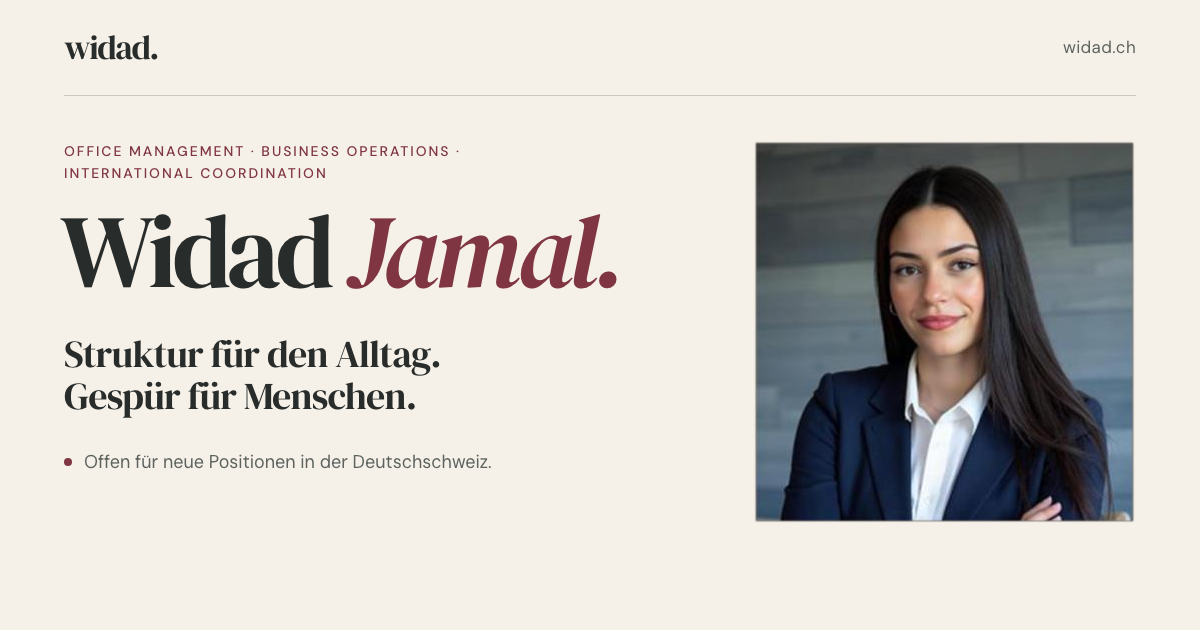
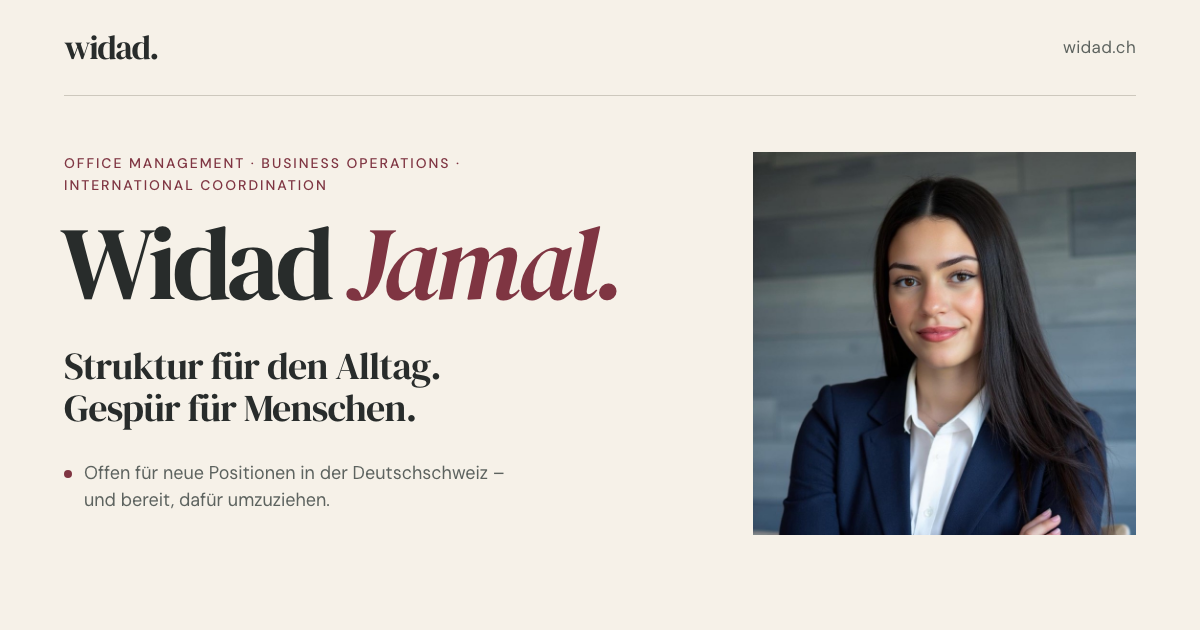
updates

diff --git a/index.html b/index.html
@@ -4,7 +4,7 @@
   <meta charset="utf-8">
   <meta name="viewport" content="width=device-width, initial-scale=1">
   <title data-i18n="meta.title">Widad Jamal | Office Management &amp; Business Operations</title>
-  <meta name="description" data-i18n-attr="content:meta.description" content="Widad Jamal – Office Manager in Lugano mit Erfahrung in Office Management, Business Operations und internationaler Koordination. Offen für neue Positionen in der Deutschschweiz.">
+  <meta name="description" data-i18n-attr="content:meta.description" content="Widad Jamal – Office Manager in Lugano mit Erfahrung in Office Management, Business Operations und internationaler Koordination. Offen für neue Positionen in der Deutschschweiz und bereit für einen Umzug.">
   <meta name="theme-color" content="#F6F1E8">
   <meta name="color-scheme" content="light">
   <link rel="canonical" href="https://widad.ch/">
@@ -14,7 +14,7 @@
   <meta property="og:site_name" content="widad.ch">
   <meta property="og:url" content="https://widad.ch/">
   <meta property="og:title" content="Widad Jamal | Office Management &amp; Business Operations">
-  <meta property="og:description" content="Office Management · Business Operations · International Coordination. Offen für neue Positionen in der Deutschschweiz.">
+  <meta property="og:description" content="Office Management · Business Operations · International Coordination. Offen für neue Positionen in der Deutschschweiz und bereit für einen Umzug.">
   <meta property="og:locale" content="de_CH">
   <meta property="og:locale:alternate" content="en_GB">
   <meta property="og:image" content="https://widad.ch/assets/img/og-image.png">
@@ -65,7 +65,7 @@
     "worksFor": { "@type": "Organization", "name": "A++ Group" },
     "address": { "@type": "PostalAddress", "addressLocality": "Chiasso", "addressCountry": "CH" },
     "email": "mailto:widad.jamal@outlook.com",
-    "alumniOf": { "@type": "CollegeOrUniversity", "name": "Université de Besançon" },
+    "alumniOf": { "@type": "CollegeOrUniversity", "name": "Université Marie et Louis Pasteur", "alternateName": "Université de Franche-Comté", "address": { "@type": "PostalAddress", "addressLocality": "Besançon", "addressCountry": "FR" } },
     "knowsAbout": ["Office Management", "Business Operations", "International Coordination"],
     "sameAs": ["https://www.linkedin.com/in/widad-jamal"]
   }
@@ -121,7 +121,7 @@
               </a>
             </div>
 
-            <p class="availability" data-i18n="hero.availability">Offen für neue Positionen in der Deutschschweiz.</p>
+            <p class="availability" data-i18n="hero.availability">Offen für neue Positionen in der Deutschschweiz – und bereit, dafür umzuziehen.</p>
           </div>
 
           <figure class="portrait">
@@ -267,12 +267,12 @@
         <div class="split">
           <div class="education">
             <h3 class="rubric" data-i18n="edu.eduTitle">Ausbildung</h3>
-            <p class="degree" data-i18n="edu.degree">Licence in Angewandten Fremdsprachen</p>
-            <p class="degree-official" lang="fr">Licence d’Arts, lettres, langues – mention Langues étrangères appliquées</p>
+            <p class="degree" data-i18n="edu.degree">Bachelor of Arts in Angewandten Fremdsprachen</p>
+            <p class="degree-official"><span data-i18n="edu.officialLabel">Offizielle Bezeichnung:</span> <span lang="fr">Licence d’Arts, lettres, langues – mention Langues étrangères appliquées</span></p>
             <dl class="facts">
               <div>
                 <dt data-i18n="edu.uniLabel">Hochschule</dt>
-                <dd data-i18n="edu.uni">Université de Besançon, Frankreich</dd>
+                <dd><span data-i18n="edu.uni">Université Marie et Louis Pasteur, Besançon (Frankreich)</span> <span class="fact-note" data-i18n="edu.uniFormer">früher Université de Franche-Comté</span></dd>
               </div>
               <div>
                 <dt data-i18n="edu.periodLabel">Studium</dt>
@@ -280,7 +280,7 @@
               </div>
               <div>
                 <dt data-i18n="edu.creditsLabel">Abschluss</dt>
-                <dd data-i18n="edu.credits">180 ECTS (Bachelor-Stufe), mit Prädikat «Bien»</dd>
+                <dd data-i18n="edu.credits">180 ECTS, mit Prädikat «Bien»</dd>
               </div>
             </dl>
           </div>
@@ -293,7 +293,7 @@
               <div><dt data-i18n="lang.fr">Französisch</dt><dd>C1</dd></div>
               <div><dt data-i18n="lang.en">Englisch</dt><dd>C1</dd></div>
               <div><dt data-i18n="lang.pt">Portugiesisch</dt><dd>B1</dd></div>
-              <div><dt data-i18n="lang.de">Deutsch</dt><dd>A2</dd></div>
+              <div><dt><span data-i18n="lang.de">Deutsch</span> <span class="fact-note" data-i18n="lang.deNote">Ich lerne aktiv weiter.</span></dt><dd>A2</dd></div>
             </dl>
             <p class="note" data-i18n="edu.langNote">Niveaus nach dem Gemeinsamen Europäischen Referenzrahmen (GER), Skala A1 bis C2.</p>
           </div>

diff --git a/assets/js/translations.js b/assets/js/translations.js
@@ -9,7 +9,7 @@
 window.WIDAD_TRANSLATIONS = {
   en: {
     "meta.title": "Widad Jamal | Office Management & Business Operations",
-    "meta.description": "Widad Jamal – Office Manager in Lugano with experience in office management, business operations and international coordination. Open to new roles in German-speaking Switzerland.",
+    "meta.description": "Widad Jamal – Office Manager in Lugano with experience in office management, business operations and international coordination. Open to new roles in German-speaking Switzerland and ready to relocate.",
 
     "nav.skip": "Skip to content",
     "nav.home": "widad. – back to top",
@@ -24,7 +24,7 @@ window.WIDAD_TRANSLATIONS = {
     "hero.lead": "I organise day-to-day office life, coordinate across locations and keep information flowing – so that international teams can work well together.",
     "hero.ctaPrimary": "Let’s get in touch",
     "hero.ctaSecondary": "View my experience",
-    "hero.availability": "Open to new roles in German-speaking Switzerland.",
+    "hero.availability": "Open to new roles in German-speaking Switzerland – and ready to relocate.",
     "hero.portraitAlt": "Portrait of Widad Jamal in a navy blazer and white blouse",
     "hero.location": "Chiasso, Switzerland",
 
@@ -71,13 +71,15 @@ window.WIDAD_TRANSLATIONS = {
     "edu.chapter": "Education & Languages",
     "edu.title": "Education and languages.",
     "edu.eduTitle": "Education",
-    "edu.degree": "Licence in Applied Foreign Languages",
+    "edu.degree": "Bachelor of Arts in Applied Foreign Languages",
+    "edu.officialLabel": "Official title:",
     "edu.uniLabel": "University",
-    "edu.uni": "Université de Besançon, France",
+    "edu.uni": "Université Marie et Louis Pasteur, Besançon (France)",
+    "edu.uniFormer": "formerly Université de Franche-Comté",
     "edu.periodLabel": "Studies",
     "edu.period": "September 2021 – June 2024",
     "edu.creditsLabel": "Degree",
-    "edu.credits": "180 ECTS (bachelor’s level), with the distinction “Bien”",
+    "edu.credits": "180 ECTS, with the distinction “Bien”",
     "edu.langTitle": "Languages",
     "edu.langNote": "Levels according to the Common European Framework of Reference (CEFR), on a scale from A1 to C2.",
     "lang.it": "Italian",
@@ -86,6 +88,7 @@ window.WIDAD_TRANSLATIONS = {
     "lang.en": "English",
     "lang.pt": "Portuguese",
     "lang.de": "German",
+    "lang.deNote": "Actively improving.",
 
     "contact.chapter": "Contact",
     "contact.title": "Let’s get to know <span class=\"accent-italic\">each other.</span>",

diff --git a/assets/css/styles.css b/assets/css/styles.css
@@ -173,6 +173,7 @@ main:focus { outline: none; }
 
 /* Large serif lines and lead paragraphs read better without hyphenation. */
 .lead,
+.availability,
 .section-deck,
 .station-lead,
 .contact-text { hyphens: manual; -webkit-hyphens: manual; }
@@ -485,7 +486,8 @@ html:not(.js) .lang-switch { display: none; }
 
 .availability {
   position: relative;
-  max-width: 30rem;
+  max-width: 34rem;
+  text-wrap: balance;
   margin-top: 1.75rem;
   padding-left: 1.1rem;
   color: var(--sub);
@@ -829,6 +831,14 @@ html:not(.js) .lang-switch { display: none; }
 }
 
 .facts { margin-top: 1.5rem; }
+
+/* Small secondary line inside a fact or language row */
+.fact-note {
+  display: block;
+  color: var(--sub);
+  font-size: 0.875rem;
+  line-height: 1.5;
+}
 
 .facts > div,
 .language-list > div {
